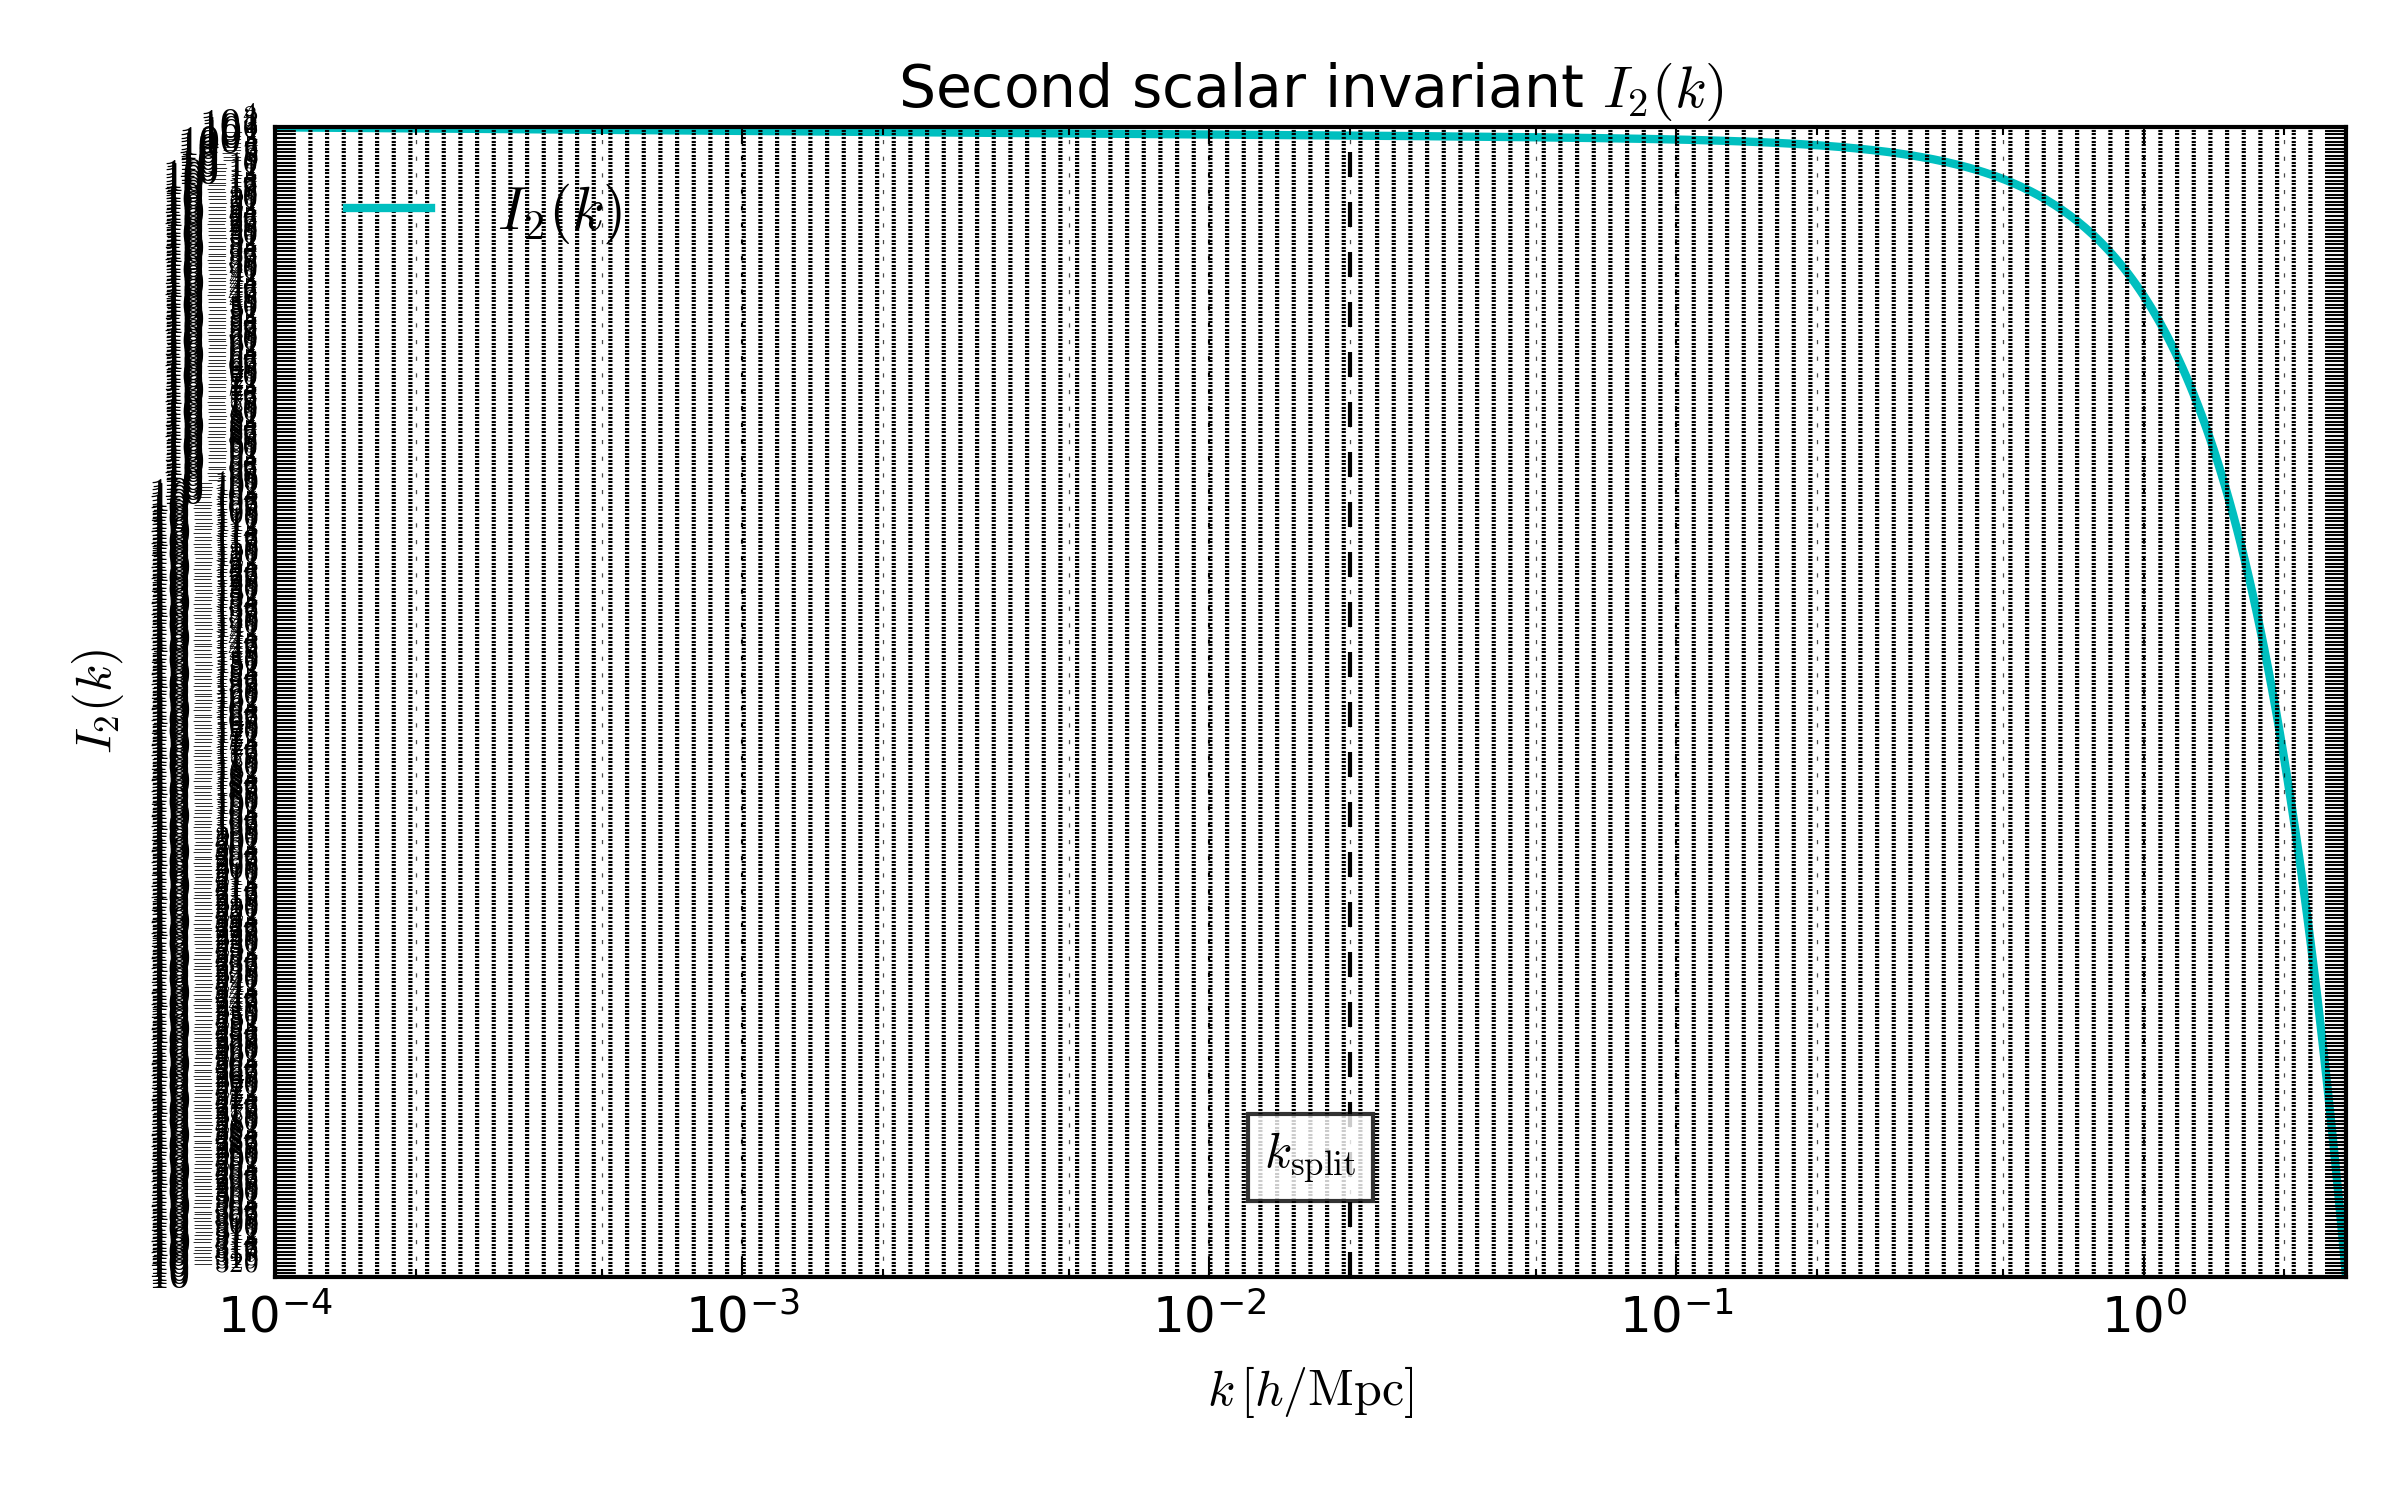
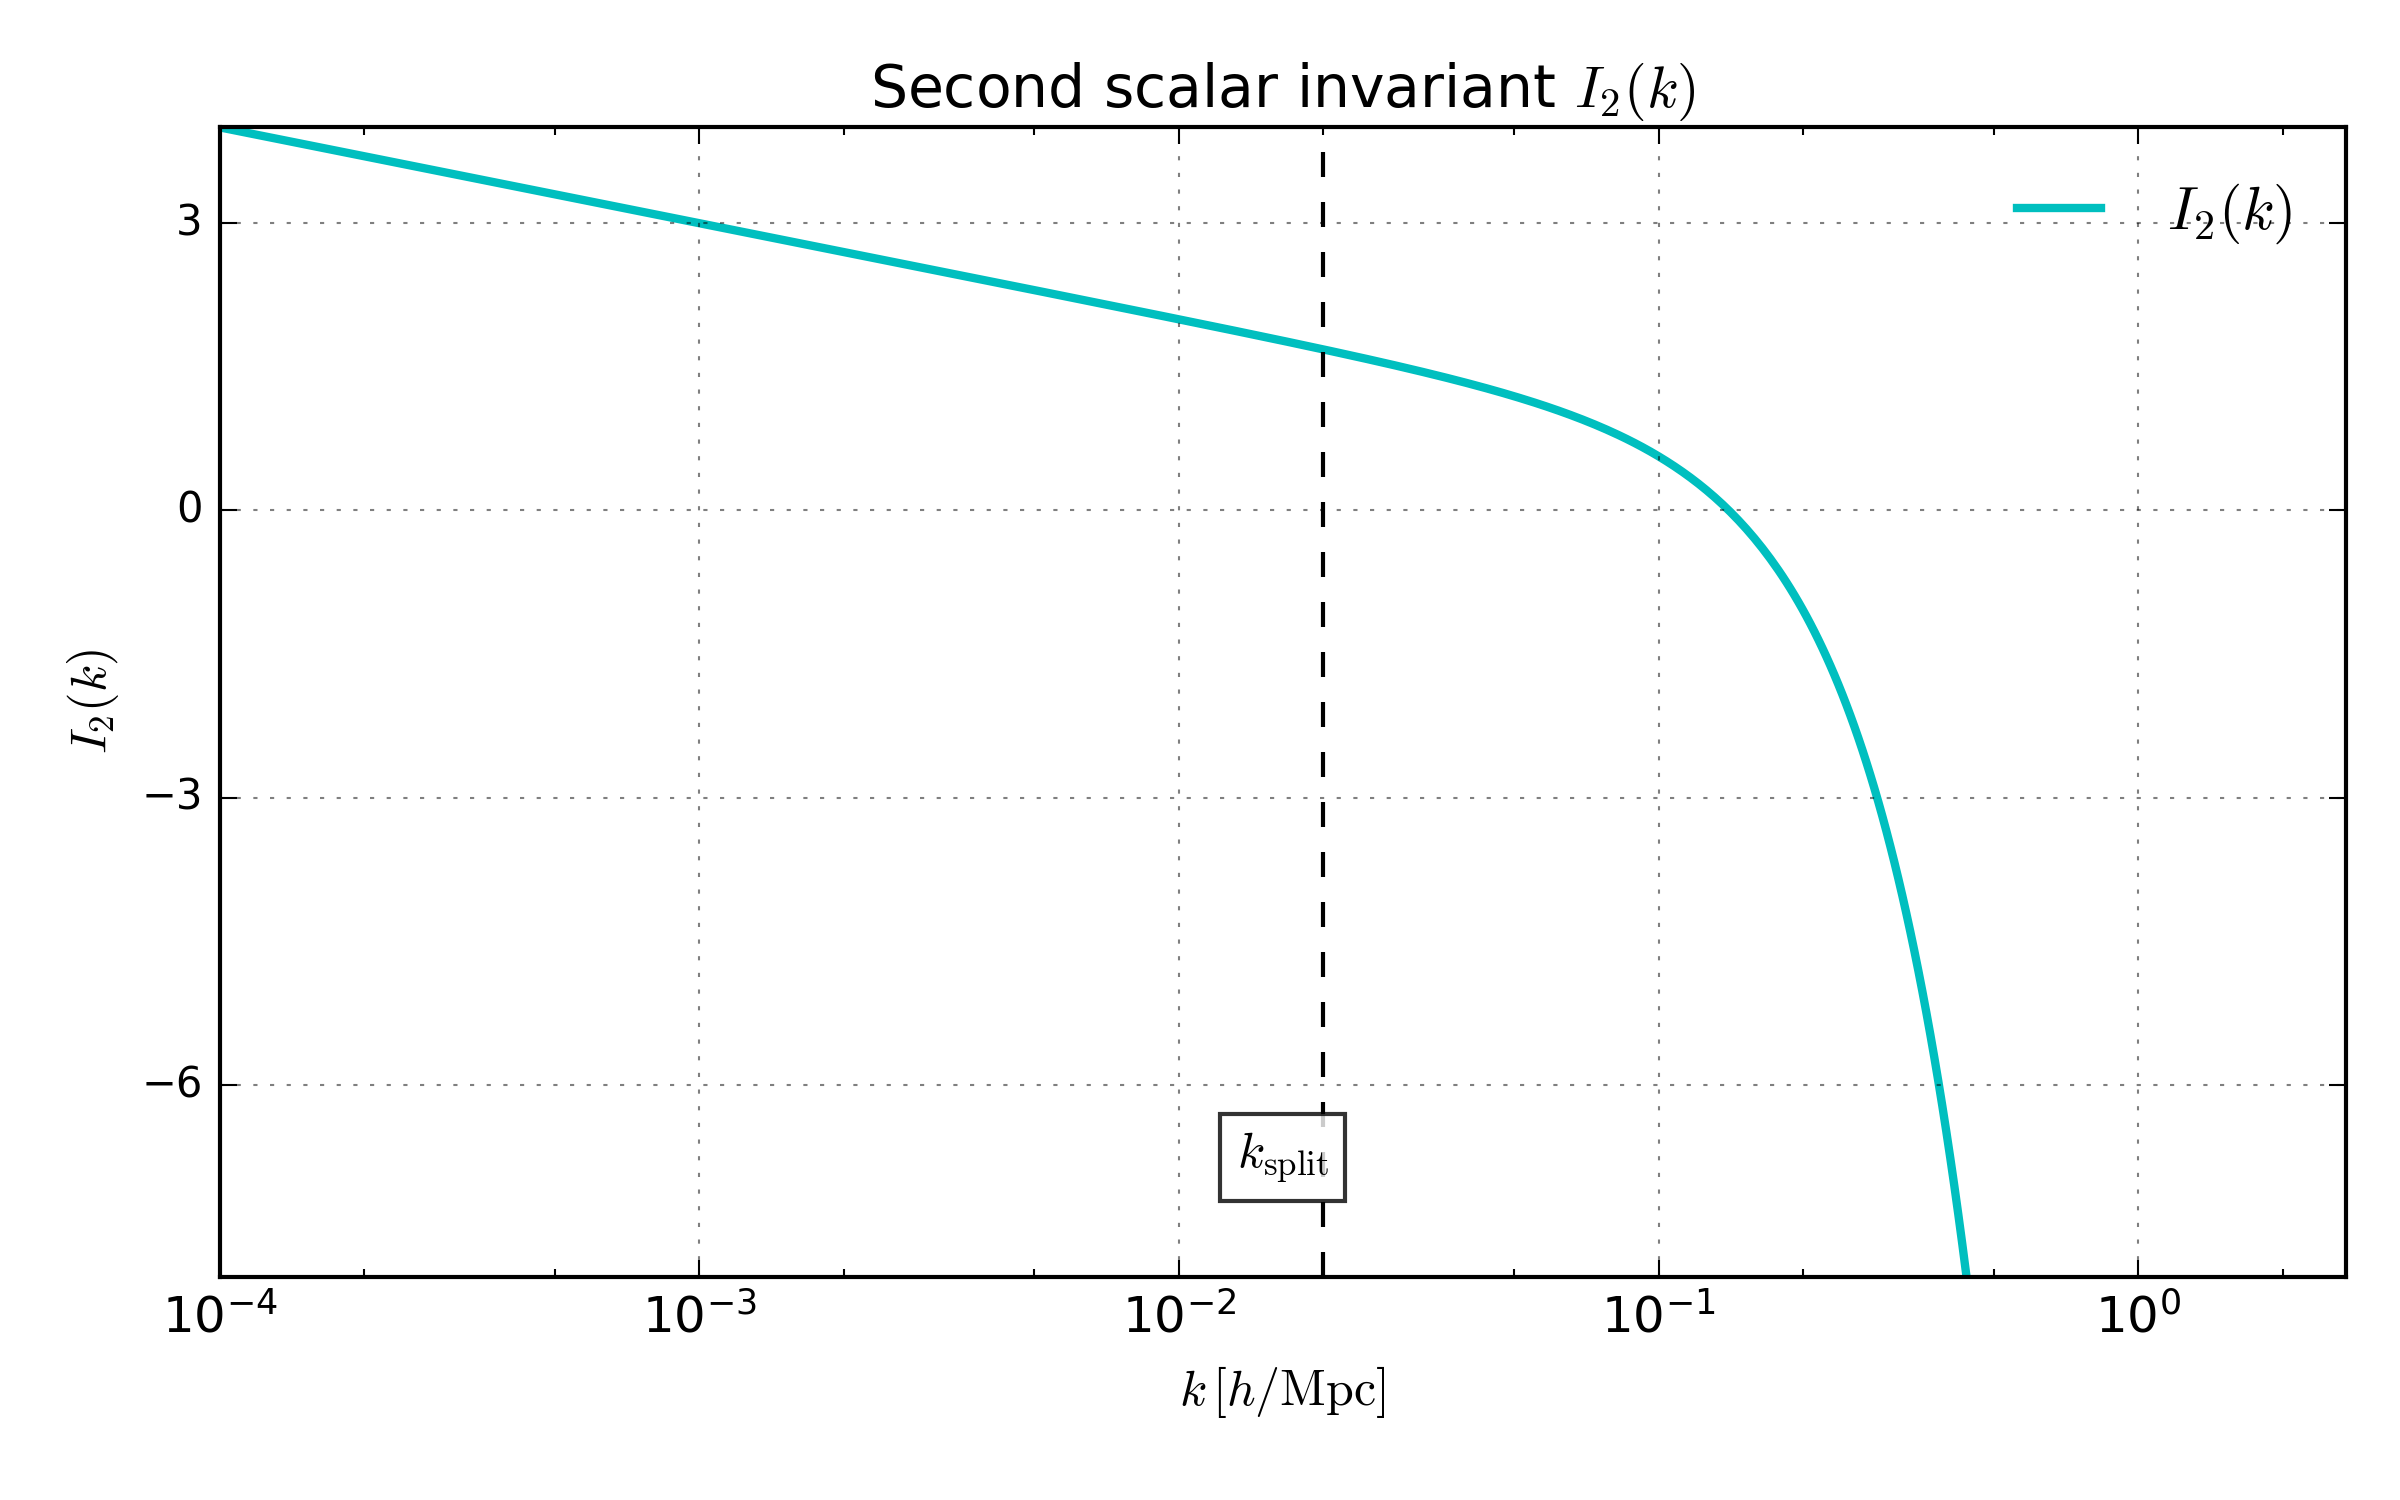
viz(ch07): brute force axis reset to solve persistent black saturation

Changed region(s): [[0.0312, 0.0307, 1.0, 0.8893], [0.5, 0.92, 0.5938, 0.9507]]

diff --git a/zz-scripts/chapter07/plot_fig07_invariant_i2.py b/zz-scripts/chapter07/plot_fig07_invariant_i2.py
@@ -181,11 +181,17 @@ def plot_invariant_i2(
     if "k" not in df.columns:
         raise KeyError(f"Colonne 'k' absente du CSV {data_csv} (colonnes: {list(df.columns)})")
 
-    col = detect_value_column(
-        df,
-        explicit=value_col,
-        preferred=["I2_cs2", "I2", "invariant_i2"],
-    )
+    # Colonne I2 : privilégie I1_cs2 (absence d'I2 dans les données actuelles)
+    if value_col and value_col in df.columns:
+        col = value_col
+    elif "I1_cs2" in df.columns:
+        col = "I1_cs2"
+    else:
+        # Choix de la première colonne numérique hors 'k'
+        numeric_cols = [c for c in df.columns if c != "k" and pd.api.types.is_numeric_dtype(df[c])]
+        if not numeric_cols:
+            raise KeyError(f"Aucune colonne numérique pour I2 dans {data_csv}")
+        col = numeric_cols[0]
 
     k_vals = df["k"].to_numpy()
     i2_vals = df[col].to_numpy()
@@ -251,6 +257,18 @@ def plot_invariant_i2(
     ax.legend(loc="best", frameon=False)
 
     out_png.parent.mkdir(parents=True, exist_ok=True)
+    # Évite les artefacts log en bornant strictement Y
+    y_lo, y_hi = float(i2_vals.min()), float(i2_vals.max())
+    ax.set_ylim(max(1e-8, y_lo), min(1e4, y_hi * 1.5))
+    # Écrase tout formatage parasite juste avant la sauvegarde
+    ax.yaxis.set_major_locator(plt.FixedLocator([1e-6, 1e-3, 1e0, 1e3]))
+    ax.yaxis.set_major_formatter(plt.LogFormatterExponent(base=10))
+    ax.yaxis.set_minor_locator(plt.NullLocator())
+    ax.yaxis.set_minor_formatter(plt.NullFormatter())
+    ax.grid(True, which="major", ls=":", alpha=0.5)
+    ax.grid(False, which="minor")
+
+    fig.canvas.draw()
     fig.tight_layout()
     safe_save(out_png, dpi=dpi)
     plt.close(fig)

diff --git a/zz-scripts/chapter07/plot_fig05_ddelta_phi_vs_k.py b/zz-scripts/chapter07/plot_fig05_ddelta_phi_vs_k.py
@@ -242,9 +242,20 @@ def plot_ddelta_phi_vs_k(
     ax.yaxis.set_major_formatter(FuncFormatter(format_pow10))
     ax.set_yticks(yticks)
 
-    ax.legend(loc="upper right", frameon=False)
+    ax.legend([r"$\partial_k(\delta\phi/\phi)$"], loc="best", frameon=False)
 
     out_png.parent.mkdir(parents=True, exist_ok=True)
+    # Évite les artefacts log en bornant strictement Y
+    y_lo, y_hi = float(abs_dd.min()), float(abs_dd.max())
+    ax.set_ylim(max(1e-8, y_lo), min(1e4, y_hi * 1.5))
+    # Écrase tout formatage parasite juste avant la sauvegarde
+    ax.yaxis.set_major_locator(plt.FixedLocator([1e-6, 1e-3, 1e0, 1e3]))
+    ax.yaxis.set_major_formatter(plt.LogFormatterExponent(base=10))
+    ax.yaxis.set_minor_locator(plt.NullLocator())
+    ax.yaxis.set_minor_formatter(plt.NullFormatter())
+    ax.grid(True, which="major", ls=":", alpha=0.5)
+    ax.grid(False, which="minor")
+
     fig.tight_layout()
     safe_save(out_png, dpi=dpi)
     plt.close(fig)

diff --git a/zz-scripts/chapter07/plot_fig04_dcs2_vs_k.py b/zz-scripts/chapter07/plot_fig04_dcs2_vs_k.py
@@ -209,7 +209,6 @@ def plot_dcs2_vs_k(
     )
 
     # Labels et titre
-    ax.set_xlabel(r"$k$ [h/Mpc]", labelpad=12, fontsize=12)
     ax.set_ylabel(r"$|\partial_k\,c_s^2|$", fontsize=12)
     ax.set_title(r"Smoothed derivative $\partial_k\,c_s^2(k)$", fontsize=14)
     # Positionnement manuel du label X pour éviter tout chevauchement
